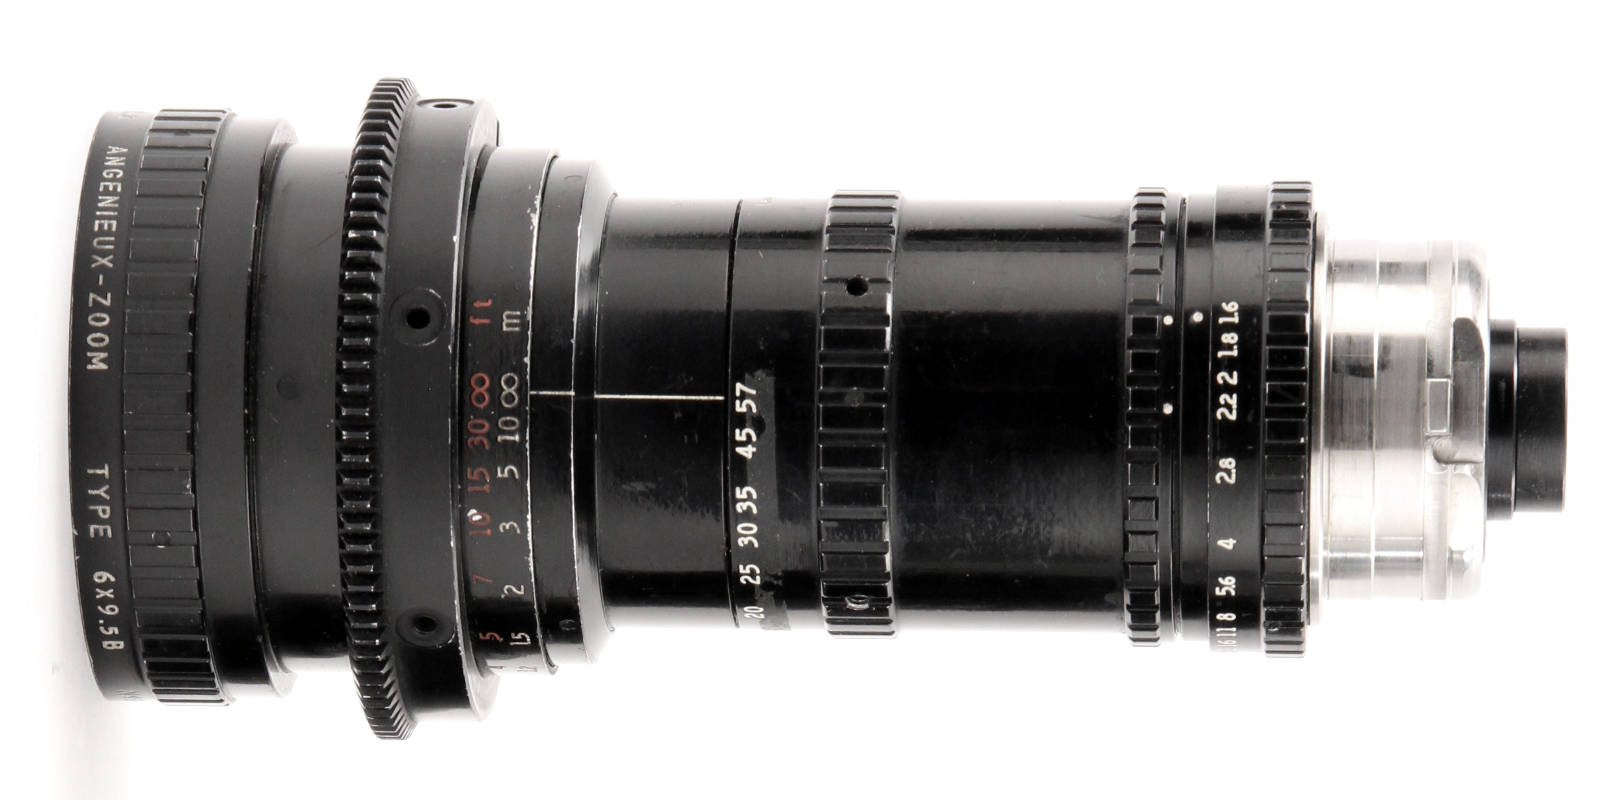
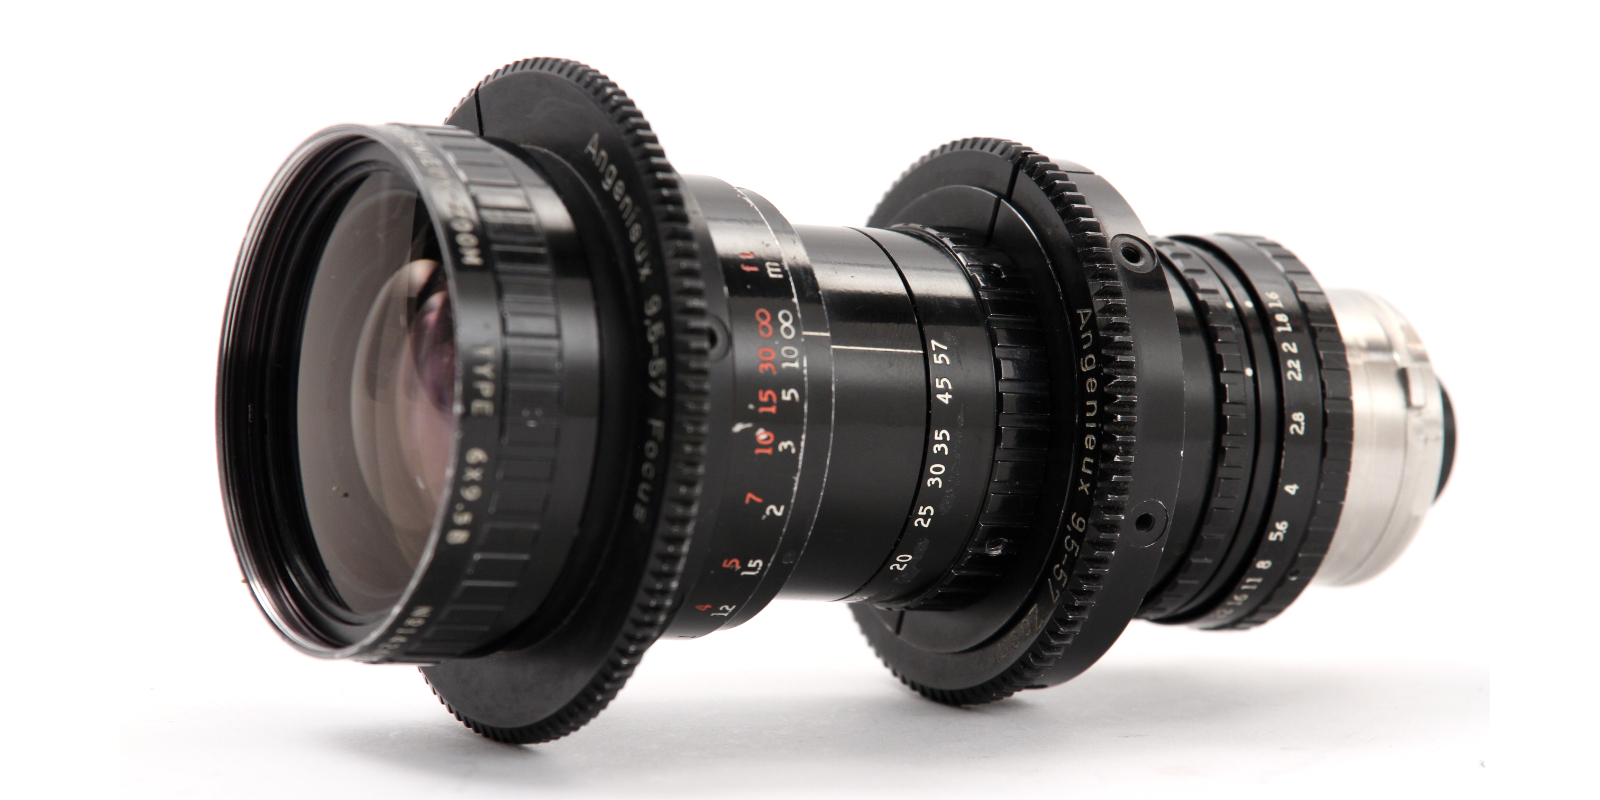
USED updates

diff --git a/usedoptics.html b/usedoptics.html
@@ -63,43 +63,75 @@
 				<ul>
 					<li><a href="/used">USED EQUIPMENT</a></li>
 					<li><a href="/usedcameras">Camera</a></li>
+					<li class="navactive">Optics</li>
 					<li><a href="/usedmonitor">Monitors &amp; Tech</a></li>
 					<li><a href="/usedaks">Accessories</a></li>
 					<li><a href="/usedsupport">Support</a></li>
-					<li class="active">Optics</li>
 				</ul>
 				</nav><hr>
 		</div>
 	
 	<div class="used-catalog">
 	
-	<article class="used-item" id="12-120">
+	<article class="used-item" id="12-120-5625">
 		<div class="used-heading">
 			<h2>
-				Angenieux 12-120 Zoom Lenses 
+				Angenieux 12-120 Zoom Lens
 			</h2>
 			<div class="used-price">
-				INQUIRE 
+				$750 
 			</div>
 		</div>
 		<div class="used-gallery">
-		<button class="used-gallery-main" type="button" aria-label="View larger photo of Angenieux 16mm Zoom Lenses"> 
-		<img src="img/used/angenieux12-120.jpg" alt="Angenieux 16mm Zoom Lenses"> </button> 
+		<button class="used-gallery-main" type="button" aria-label="View larger photo of Angenieux 12-120 Zoom Lens 5645"> 
+		<img src="img/used/12-120-angle-5625.jpg" alt="Angenieux 12-120 Zoom Lens 5645"> </button> 
 		<div class="used-thumbnails">
-			<button class="used-thumbnail" type="button" aria-label="View Angenieux 16mm Zoom Lenses photo 1"> <img src="img/used/angenieux12-120.jpg" alt=""> </button> 
-			<button class="used-thumbnail" type="button" aria-label="View Angenieux 12-120 photo 2"> <img src="img/used/12-120front.jpg" alt=""> </button> 
-			<button class="used-thumbnail" type="button" aria-label="View Angenieux 12-120 photo 3"> <img src="img/used/12-120rear.jpg" alt=""> </button>
-			<button class="used-thumbnail" type="button" aria-label="View Angenieux 12-120 photo 4"> <img src="img/used/12-120front2.jpg" alt=""> </button> 
-			<button class="used-thumbnail" type="button" aria-label="View Angenieux 12-120 photo 5"> <img src="img/used/12-120rear2.jpg" alt=""> </button> 
+			<button class="used-thumbnail" type="button" aria-label="View Angenieux 12-120 Zoom Lens 5645 photo 1"> <img src="img/used/12-120-angle-5625.jpg" alt=""> </button> 
+			<button class="used-thumbnail" type="button" aria-label="View Angenieux 12-120 Zoom Lens 5645 photo 2"> <img src="img/used/12-120-5625.jpg" alt=""> </button>
+			<button class="used-thumbnail" type="button" aria-label="View Angenieux 12-120 Zoom Lens 5645 photo 3"> <img src="img/used/12-120-rear-5625.jpg" alt=""> </button>
+			<button class="used-thumbnail" type="button" aria-label="View Angenieux 12-120 Zoom Lens 5645 photo 4"> <img src="img/used/12-120-front-5625.jpg" alt=""> </button>
+			<button class="used-thumbnail" type="button" aria-label="View Angenieux 12-120 Zoom Lens 5645 photo 5"> <img src="img/used/12-120-vertical-5625.jpg" alt=""> </button>
+			<button class="used-thumbnail" type="button" aria-label="View Angenieux 12-120 Zoom Lens 5645 photo 6"> <img src="img/used/12-120-vertical-alt-5625.jpg" alt=""> </button>
+			<button class="used-thumbnail" type="button" aria-label="View Angenieux 12-120 Zoom Lens 5645 photo 7"> <img src="img/used/12-120-mount-5645.jpg" alt=""> </button>	
+			<button class="used-thumbnail" type="button" aria-label="View Angenieux 12-120 Zoom Lens 5645 photo 8"> <img src="img/used/12-120-curve-5625.jpg" alt=""> </button>		
 		</div> 
 		</div>
 			<ul>
-				<li>(2x) Available</li>
 				<li>Focus gear</li>
 				<li>Zoom gear</li>
 				<li>ARRI Bayonet mount</li>
 			</ul>
-			<a class="used-inquire" href="mailto:info@strattoncamera.com?subject=Used%20equipment%20inquiry%20Angenieux%2012-120"> Inquire about this item </a> 
+			<a class="used-inquire" href="mailto:info@strattoncamera.com?subject=Used%20equipment%20inquiry%20Angenieux%2012-120-5645"> Inquire about this item </a> 
+	</article>
+	
+	<article class="used-item" id="12-120-4610">
+		<div class="used-heading">
+			<h2>
+				Angenieux 12-120 Zoom Lens 
+			</h2>
+			<div class="used-price">
+				$750 
+			</div>
+		</div>
+		<div class="used-gallery">
+		<button class="used-gallery-main" type="button" aria-label="View larger photo of Angenieux 12-120 Zoom Lens 4610"> 
+		<img src="img/used/12-120-4610.jpg" alt="Angenieux 12-120 Zoom Lens 4610"> </button> 
+		<div class="used-thumbnails">
+			<button class="used-thumbnail" type="button" aria-label="View Angenieux 12-120 Zoom Lens 4610 photo 1"> <img src="img/used/12-120-4610.jpg" alt=""> </button> 
+			<button class="used-thumbnail" type="button" aria-label="View Angenieux 12-120 Zoom Lens 4610 photo 2"> <img src="img/used/12-120-angle-4610.jpg" alt=""> </button>
+			<button class="used-thumbnail" type="button" aria-label="View Angenieux 12-120 Zoom Lens 4610 photo 3"> <img src="img/used/12-120-rear-4610.jpg" alt=""> </button>
+			<button class="used-thumbnail" type="button" aria-label="View Angenieux 12-120 Zoom Lens 4610 photo 4"> <img src="img/used/12-120-front-4610.jpg" alt=""> </button>
+			<button class="used-thumbnail" type="button" aria-label="View Angenieux 12-120 Zoom Lens 4610 photo 5"> <img src="img/used/12-120-vertical-4610.jpg" alt=""> </button>
+			<button class="used-thumbnail" type="button" aria-label="View Angenieux 12-120 Zoom Lens 4610 photo 6"> <img src="img/used/12-120-vertical-alt-4610.jpg" alt=""> </button>
+			<button class="used-thumbnail" type="button" aria-label="View Angenieux 12-120 Zoom Lens 4610 photo 7"> <img src="img/used/12-120-curve-4610.jpg" alt=""> </button>		
+		</div>  
+		</div>
+			<ul>
+				<li>Focus gear</li>
+				<li>Zoom gear</li>
+				<li>ARRI Bayonet mount</li>
+			</ul>
+			<a class="used-inquire" href="mailto:info@strattoncamera.com?subject=Used%20equipment%20inquiry%20Angenieux%2012-120-4610"> Inquire about this item </a> 
 	</article>
 		
 	<article class="used-item" id="95-57">
@@ -116,7 +148,11 @@
 		<img src="img/used/95-57.jpg" alt="Angenieux 9.5-57mm Zoom Lens"> </button> 
 		<div class="used-thumbnails">
 			<button class="used-thumbnail" type="button" aria-label="View Angenieux 9.5-57 Zoom Lens photo 1"> <img src="img/used/95-57.jpg" alt=""> </button> 
-			<button class="used-thumbnail" type="button" aria-label="View Angenieux 9.5-57 Zoom Lens photo 2"> <img src="img/used/95-57alt.jpg" alt=""> </button>
+			<button class="used-thumbnail" type="button" aria-label="View Angenieux 9.5-57 Zoom Lens photo 2"> <img src="img/used/95-57-angle.jpg" alt=""> </button>
+			<button class="used-thumbnail" type="button" aria-label="View Angenieux 9.5-57 Zoom Lens photo 2"> <img src="img/used/95-57-front.jpg" alt=""> </button>
+			<button class="used-thumbnail" type="button" aria-label="View Angenieux 9.5-57 Zoom Lens photo 2"> <img src="img/used/95-57-vertical.jpg" alt=""> </button>
+			<button class="used-thumbnail" type="button" aria-label="View Angenieux 9.5-57 Zoom Lens photo 2"> <img src="img/used/95-57-vertical-alt.jpg" alt=""> </button>
+			<button class="used-thumbnail" type="button" aria-label="View Angenieux 9.5-57 Zoom Lens photo 2"> <img src="img/used/95-57-curve.jpg" alt=""> </button>
 		</div> 
 		</div>
 			<ul>

diff --git a/usedaks.html b/usedaks.html
@@ -65,8 +65,8 @@
 					<li><a href="/usedcameras">Camera</a></li>
 					<li><a href="/usedoptics">Optics</a></li>
 					<li><a href="/usedmonitor">Monitors &amp; Tech</a></li>
+					<li class="navactive">Accessories</li>
 					<li><a href="/usedsupport">Support</a></li>
-					<li class="active">Accessories</li>
 				</ul>
 				</nav><hr>
 			</div>
@@ -162,7 +162,7 @@
 				<li>Dumb side 2 speed knob</li>
 				<li>(2x) gears</li>
 				<li>Lever</li>
-				<li>Whip</li>
+				<li>13&quot; Whip</li>
 				<li>15mm Studio Rod Adapter</li>
 			</ul>
 			<a class="used-inquire" href="mailto:info@strattoncamera.com?subject=Used%20equipment%20inquiry%20ARRI%20FF3"> Inquire about this item </a> 
@@ -189,7 +189,7 @@
 				<li>Dumb side</li>
 				<li>(2x) gears</li>
 				<li>Lever</li>
-				<li>Whip</li>
+				<li>13&quot; Whip</li>
 				<li>For 15mm Studio rod systems only</li>
 			</ul>
 			<a class="used-inquire" href="mailto:info@strattoncamera.com?subject=Used%20equipment%20inquiry%20ARRI%20FF2"> Inquire about this item </a> 
@@ -209,6 +209,8 @@
 		<div class="used-thumbnails">
 			<button class="used-thumbnail" type="button" aria-label="View ARRI Follow Focus 1 photo 1"> <img src="img/used/ff1.jpg" alt=""> </button> 
 			<button class="used-thumbnail" type="button" aria-label="View ARRI Follow Focus 1 photo 2"> <img src="img/used/ff1alt.jpg" alt=""> </button> 
+			<button class="used-thumbnail" type="button" aria-label="View ARRI Follow Focus 1 photo 3"> <img src="img/used/ff1-gear-16mmzoom.jpg" alt=""> </button> 
+			<button class="used-thumbnail" type="button" aria-label="View ARRI Follow Focus 1 photo 4"> <img src="img/used/ff1-gear-35-3.jpg" alt=""> </button> 			
 		</div> 
 		</div>
 			<ul>
@@ -235,12 +237,12 @@
 			<button class="used-thumbnail" type="button" aria-label="View ARRI light weight focus photo 1"> <img src="img/used/lwff2.jpg" alt=""> </button> 
 			<button class="used-thumbnail" type="button" aria-label="View ARRI light weight focus photo 2"> <img src="img/used/lwff.jpg" alt=""> </button> 
 			<button class="used-thumbnail" type="button" aria-label="View ARRI light weight focus photo 3"> <img src="img/used/lwffrods.jpg" alt=""> </button> 
+			<button class="used-thumbnail" type="button" aria-label="View ARRI light weight focus photo 4"> <img src="img/used/lwff-gear-16SR.jpg" alt=""> </button> 
 		</div> 
 		</div>
 			<ul>
 				<li>For LWS rod system only</li>
-				<li>Zoom gear</li>
-				<li>Prime gear</li>
+				<li>16SR gear</li>
 				<li>From the 16SR-1 era</li>
 			</ul>
 			<a class="used-inquire" href="mailto:info@strattoncamera.com?subject=Used%20equipment%20inquiry%20Arri%20LWFF"> Inquire about this item </a> 
@@ -263,11 +265,14 @@
 			</div>
 		</div>
 		<div class="used-gallery">
-		<button class="used-gallery-main" type="button" aria-label="View larger photo of ARRI MB-19 Matte Box"> <img src="img/used/mb19back.jpg" alt="ARRI MB-19 Matte Box"> </button> 
+		<button class="used-gallery-main" type="button" aria-label="View larger photo of ARRI MB-19 Matte Box"> <img src="img/used/mb19angle.jpg" alt="ARRI MB-19 Matte Box"> </button> 
 		<div class="used-thumbnails">
-			<button class="used-thumbnail" type="button" aria-label="View ARRI MB-19 Matte Box photo 1"> <img src="img/used/mb19back.jpg" alt=""> </button> 
-			<button class="used-thumbnail" type="button" aria-label="View ARRI MB-19 Matte Box photo 2"> <img src="img/used/mb19dumb.jpg" alt=""> </button> 
-			<button class="used-thumbnail" type="button" aria-label="View ARRI MB-19 Matte Box photo 3"> <img src="img/used/mb19front.jpg" alt=""> </button> 
+			<button class="used-thumbnail" type="button" aria-label="View ARRI MB-19 Matte Box photo 1"> <img src="img/used/mb19angle.jpg" alt=""> </button> 
+			<button class="used-thumbnail" type="button" aria-label="View ARRI MB-19 Matte Box photo 2"> <img src="img/used/mb19back.jpg" alt=""> </button> 
+			<button class="used-thumbnail" type="button" aria-label="View ARRI MB-19 Matte Box photo 3"> <img src="img/used/mb19dumb.jpg" alt=""> </button> 
+			<button class="used-thumbnail" type="button" aria-label="View ARRI MB-19 Matte Box photo 4"> <img src="img/used/mb19dumb-cu.jpg" alt=""> </button> 
+			<button class="used-thumbnail" type="button" aria-label="View ARRI MB-19 Matte Box photo 5"> <img src="img/used/mb19front.jpg" alt=""> </button> 
+			<button class="used-thumbnail" type="button" aria-label="View ARRI MB-19 Matte Box photo 6"> <img src="img/used/mb19flag.jpg" alt=""> </button> 
 		</div> 
 		</div>
 			<ul>

diff --git a/usedcameras.html b/usedcameras.html
@@ -64,11 +64,11 @@
 		<nav class="breadcrumb">
 			<ul>
 				<li><a href="/used">USED EQUIPMENT</a></li>
+				<li class="navactive">Camera</li>
 				<li><a href="/usedoptics">Optics</a></li>
 				<li><a href="/usedmonitor">Monitors &amp; Tech</a></li>
 				<li><a href="/usedaks">Accessories</a></li>
 				<li><a href="/usedsupport">Support</a></li>
-				<li class="active">Camera</li>
 			</ul>
 		</nav>
 		<hr>
@@ -218,25 +218,27 @@
 					Panasonic SDX-900
 				</h3>
 				<div class="used-price">
-					$500 (2x available) 
+					$500 
 				</div>
 			</div>
 			<div class="used-gallery">
-				<button class="used-gallery-main" type="button" aria-label="View larger photo of Panasonic SDX-900"> <img src="img/used/sdx900set.jpg" alt="Panasonic SDX-900"> </button> 
+				<button class="used-gallery-main" type="button" aria-label="View larger photo of Panasonic SDX-900"> <img src="img/used/sdx900.jpg" alt="Panasonic SDX-900"> </button> 
 				<div class="used-thumbnails">
-					<button class="used-thumbnail" type="button" aria-label="View Panasonic SDX-900 photo 1"> <img src="img/used/sdx900set.jpg" alt=""> </button> 
-					<button class="used-thumbnail" type="button" aria-label="View Panasonic SDX-900 photo 2"> <img src="img/used/sdx900.jpg" alt=""> </button> 
-					<button class="used-thumbnail" type="button" aria-label="View Panasonic SDX-900 photo 3"> <img src="img/used/sdx900side.jpg" alt=""> </button> 
-					<button class="used-thumbnail" type="button" aria-label="View Panasonic SDX-900 photo 4"> <img src="img/used/sdx900front.jpg" alt=""> </button> 
-					<button class="used-thumbnail" type="button" aria-label="View Panasonic SDX-900 photo 5"> <img src="img/used/sdx900back.jpg" alt=""> </button> 
-					<button class="used-thumbnail" type="button" aria-label="View Panasonic SDX-900 photo 6"> <img src="img/used/sdx900paint.jpg" alt=""> </button> 
+					<button class="used-thumbnail" type="button" aria-label="View Panasonic SDX-900 photo 1"> <img src="img/used/sdx900.jpg" alt=""> </button> 
+					<button class="used-thumbnail" type="button" aria-label="View Panasonic SDX-900 photo 2"> <img src="img/used/sdx900side.jpg" alt=""> </button> 
+					<button class="used-thumbnail" type="button" aria-label="View Panasonic SDX-900 photo 3"> <img src="img/used/sdx900front.jpg" alt=""> </button> 
+					<button class="used-thumbnail" type="button" aria-label="View Panasonic SDX-900 photo 4"> <img src="img/used/sdx900back.jpg" alt=""> </button> 
+					<button class="used-thumbnail" type="button" aria-label="View Panasonic SDX-900 photo 5"> <img src="img/used/sdx900paint.jpg" alt=""> </button> 
 				</div>
 			</div>
 			<ul>
+				<li>Operating Hours: 1210</li>
+				<li>Drumm Running Hours: 510</li>
+				<li>Threading cycles: 4606</li>
 				<li>DVCPRO 25 &amp; 50</li>
                 <li>&frac23;&quot; Prism optics</li>
-                <li>(1x) Viewfinder Extension</li>
-                <li>(2x) AJ-EC3P Paint Box</li>
+                <li>Viewfinder Extension</li>
+                <li>AJ-EC3P Paint Box <small>(6 ft. &amp; 100 ft cables)</small></li>
                 <li>Gold mount battery plate</li>
                 <li>Manual</li>
 			</ul>

diff --git a/usedmonitor.html b/usedmonitor.html
@@ -64,9 +64,9 @@
 					<li><a href="/used">USED EQUIPMENT</a></li>
 					<li><a href="/usedcameras">Camera</a></li>
 					<li><a href="/usedoptics">Optics</a></li>
+					<li class="navactive">Monitors &amp; Tech</li>
 					<li><a href="/usedaks">Accessories</a></li>
 					<li><a href="/usedsupport">Support</a></li>
-					<li class="active">Monitors &amp; Tech</li>
 				</ul>
 				</nav><hr>
 			</div>

diff --git a/sw.js b/sw.js
@@ -18,7 +18,7 @@
 ////////////////////////////////////////////////////////////////////////////////
 // VERSIONED CACHES
 ////////////////////////////////////////////////////////////////////////////////
-const SW_VERSION = 'v16.71';
+const SW_VERSION = 'v16.9';
 
 const PRECACHE = `precache-${SW_VERSION}`;
 const RUNTIME  = `runtime-${SW_VERSION}`;

diff --git a/usedsupport.html b/usedsupport.html
@@ -66,7 +66,7 @@
 					<li><a href="/usedoptics">Optics</a></li>
 					<li><a href="/usedmonitor">Monitors &amp; Tech</a></li>
 					<li><a href="/usedaks">Accessories</a></li>
-					<li class="active">Support</li>
+					<li class="navactive">Support</li>
 				</ul>
 				</nav><hr>
 			</div>

diff --git a/used-wcu3-zmu3-package.html b/used-wcu3-zmu3-package.html
@@ -137,7 +137,6 @@
 				<li>(1x) ZMU3 - CLM cable (For standalone wired operation)</li>
 				<li>(1x) PSC - 3pin RS cable</li>
 				<li>(1x) PSC - P-Tap cable</li>
-				
 			</ul>
 			<ul>
 				<li>UMC-3a Controller</li>
